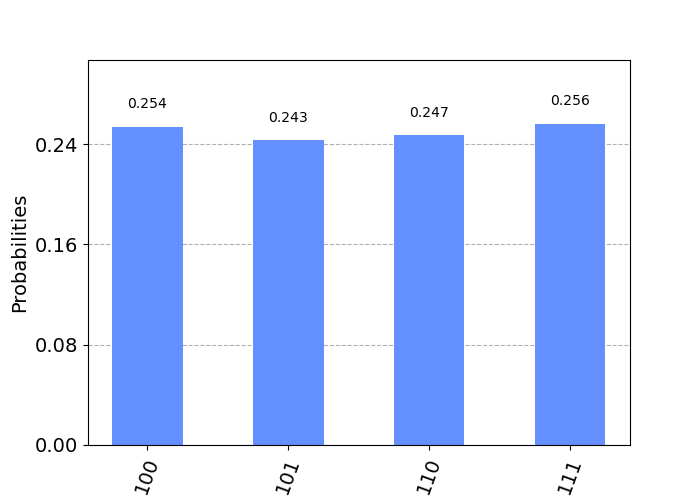
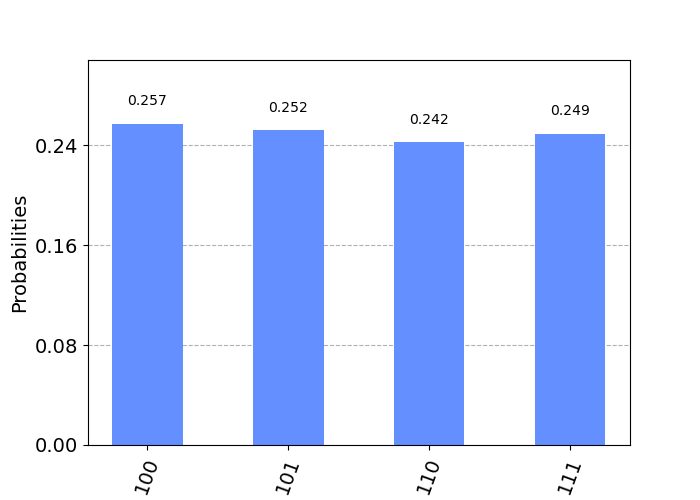
Better actual Quantum Computer Example

diff --git a/main.py b/main.py
@@ -80,7 +80,7 @@ def run_on_IBM(circuit, n):
     results = job.result()
     answer = results.get_counts()
 
-    plot_histogram(answer, filename='IBM_Imgs/histogram')
+    plot_histogram(answer, filename='IBM_Imgs/histogram2')
 
 print("Running Deutsch Examples")
 for example in example_oracles.deutsch_examples:
@@ -105,7 +105,7 @@ for example in example_oracles.deutsch_jozsa_examples:
 
 print("Running it on IBM")
 # Try it on real Q-computer:
-oracle, n = example_oracles.jozsa_example_one()
-circuit = deutsch_jozsa(oracle, n)
-circuit.draw(output="mpl", filename='IBM_Imgs/oracle1')
+oracle = example_oracles.example_two()
+circuit = deutsch(oracle)
+circuit.draw(output="mpl", filename='IBM_Imgs/oracle2')
 run_on_IBM(circuit, n)
